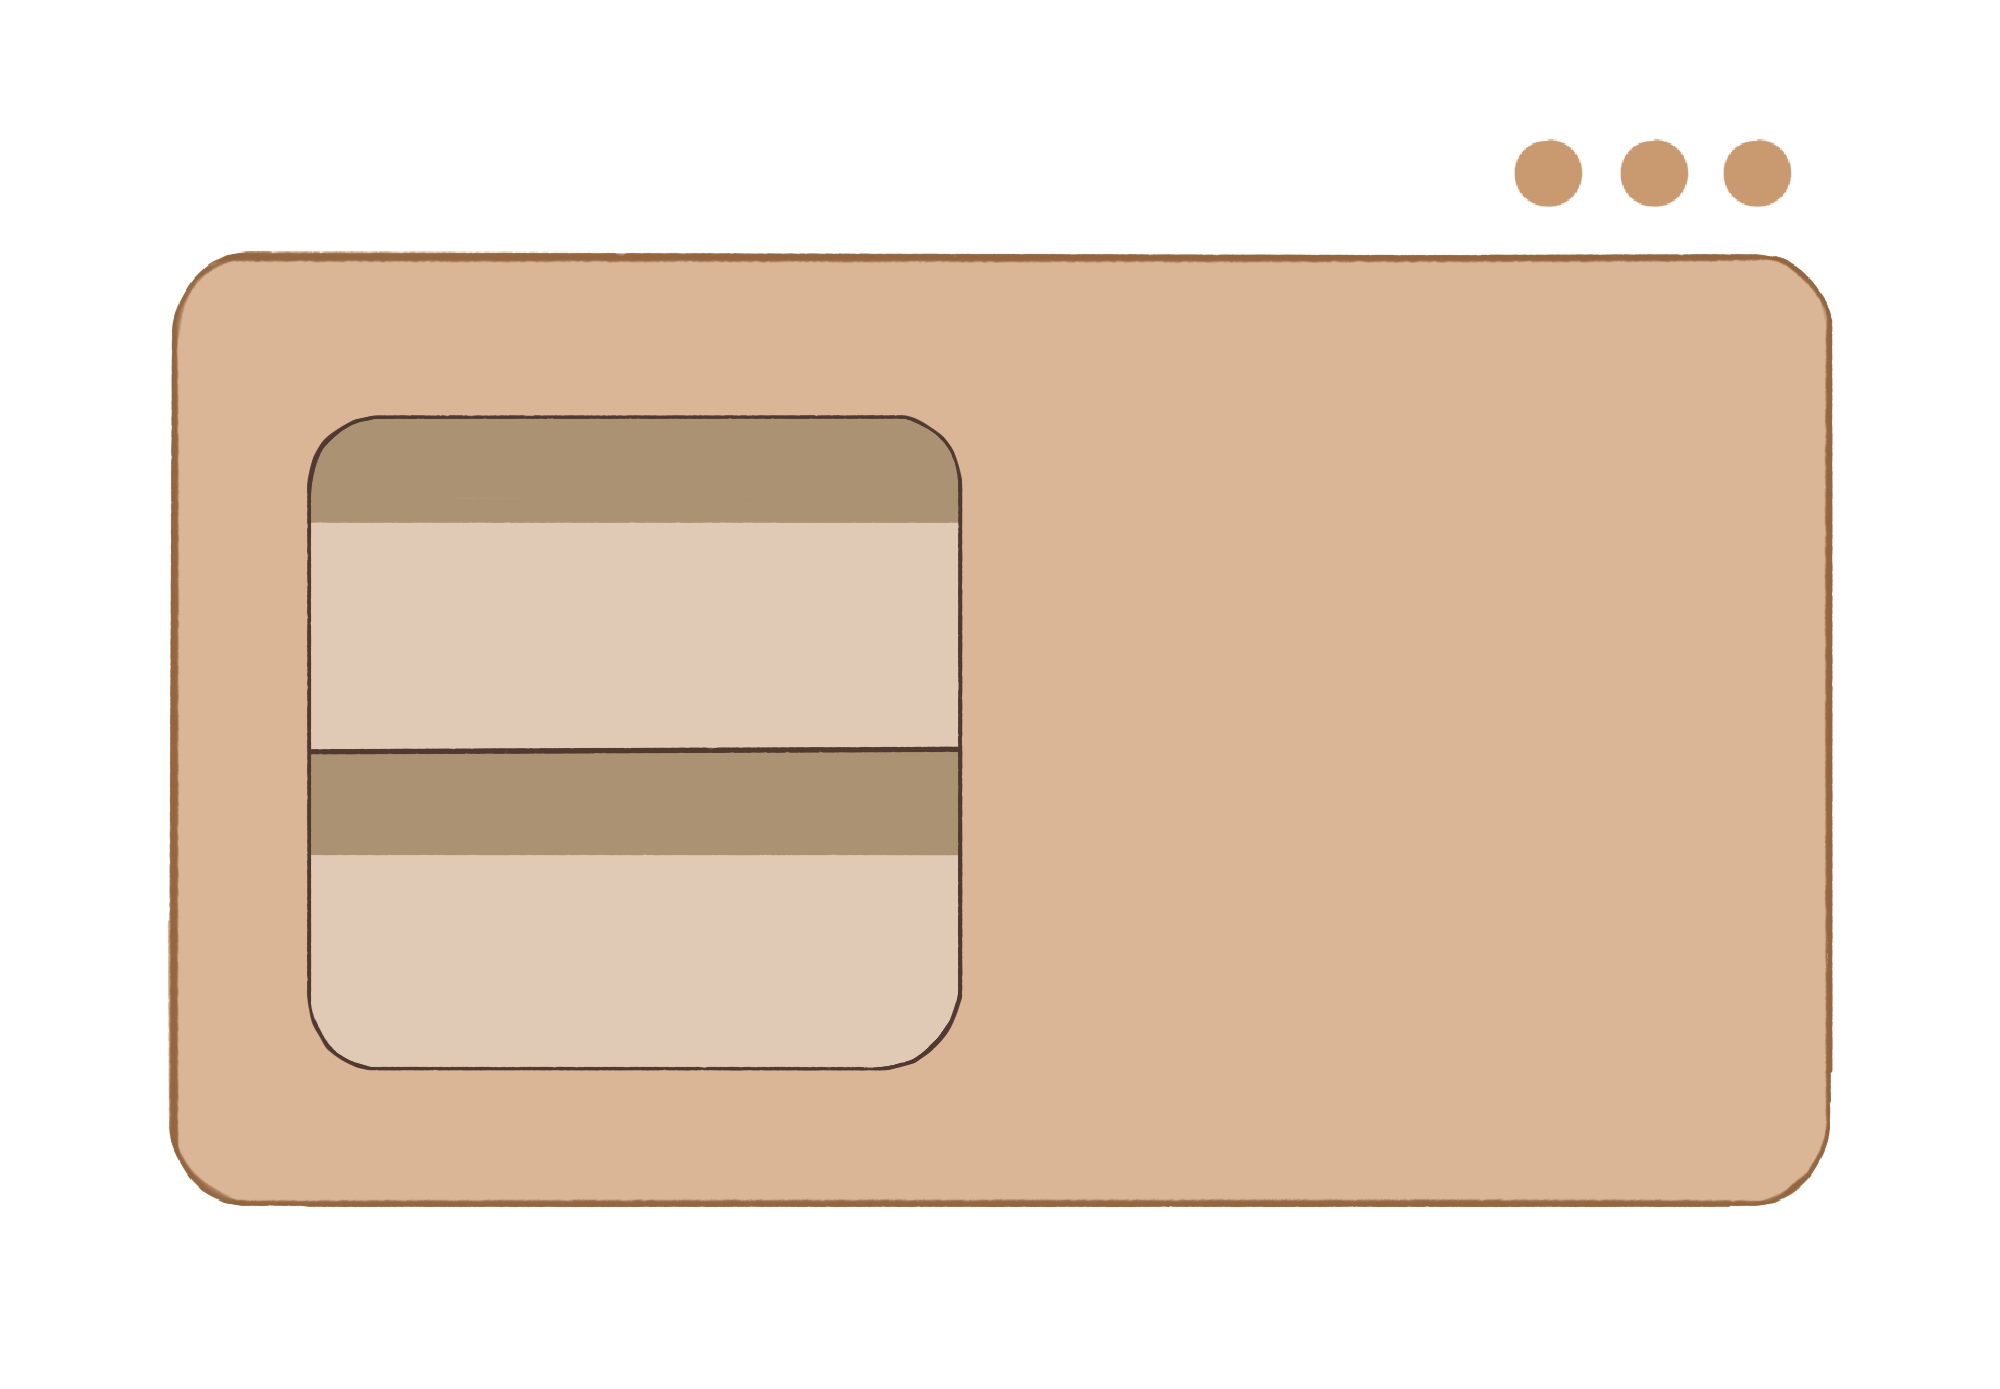
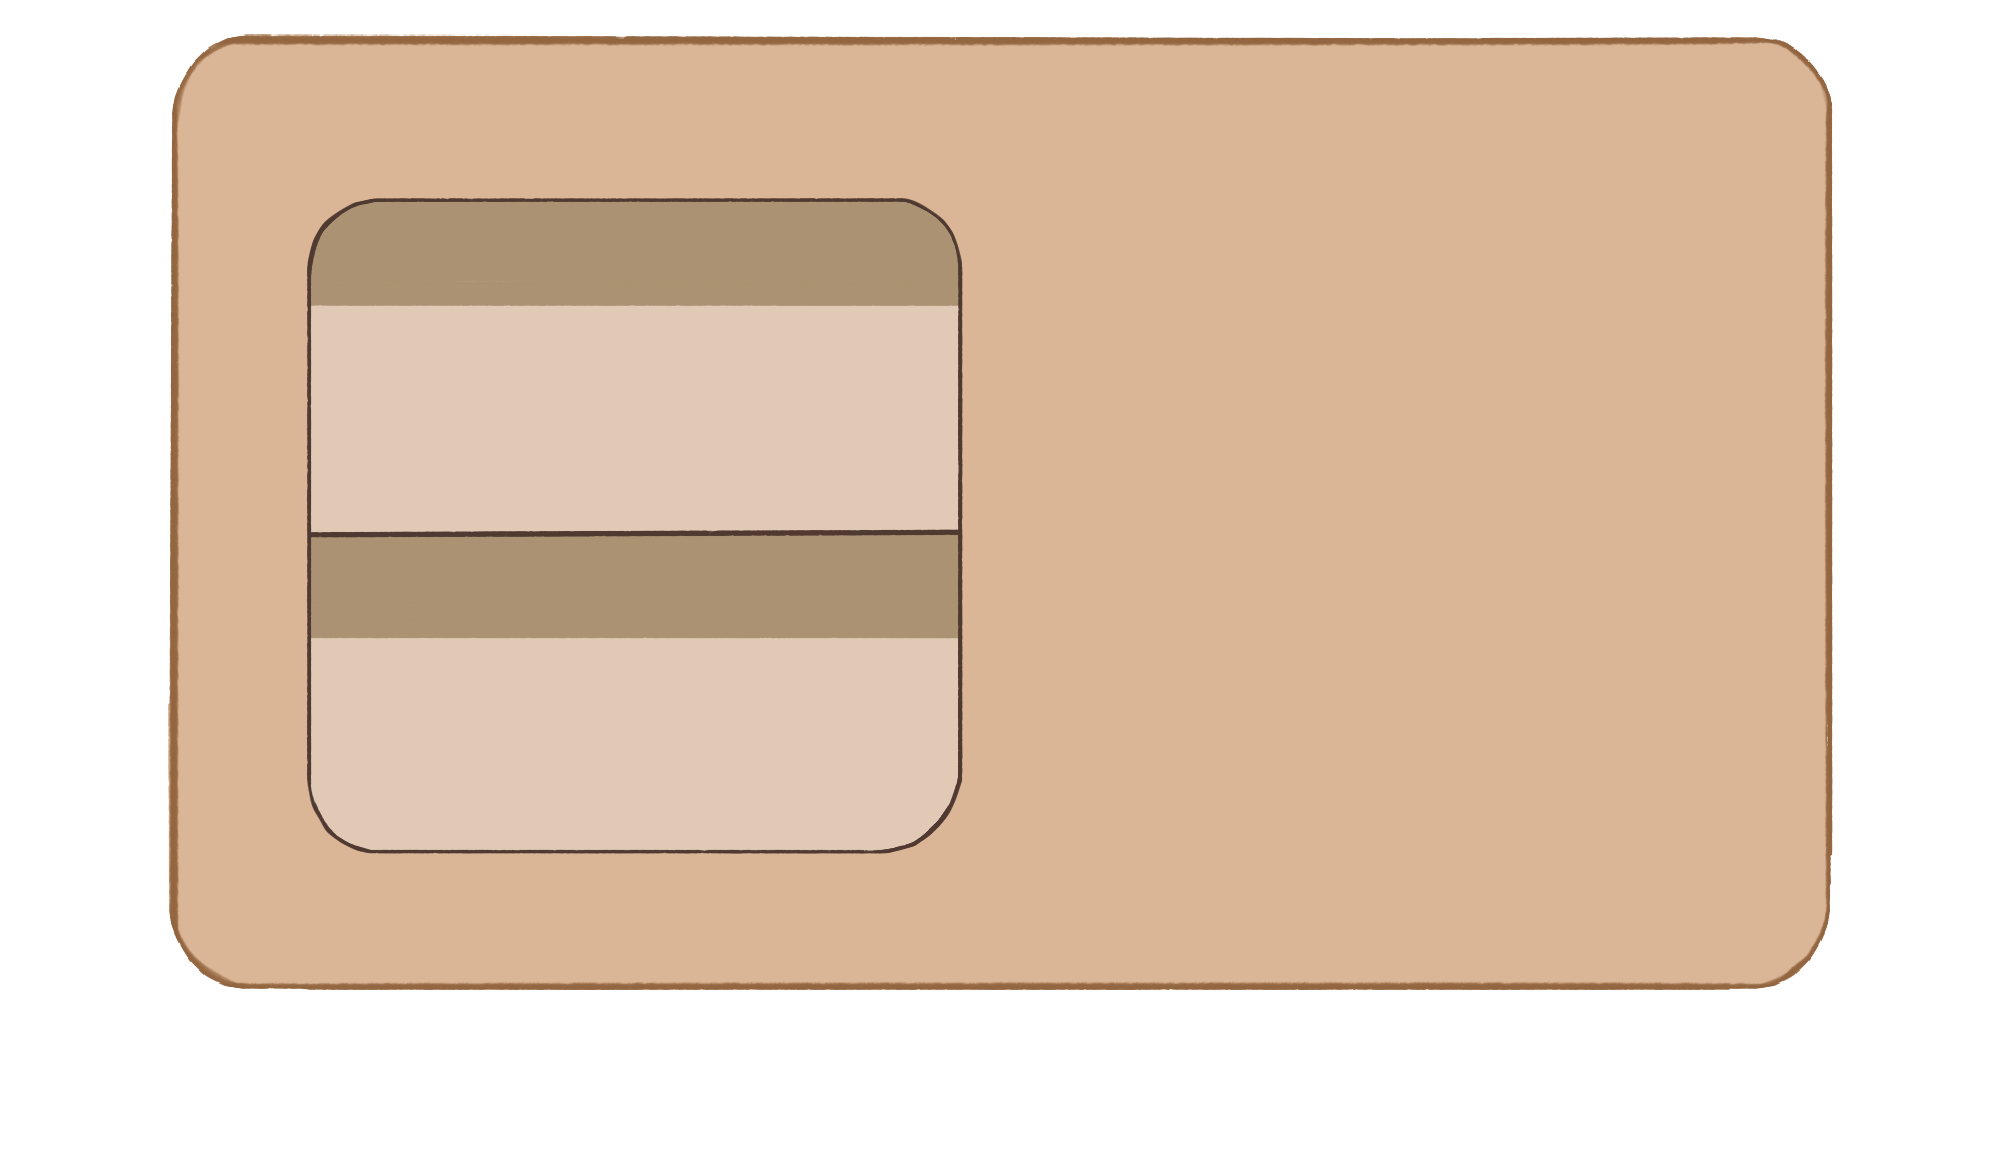
fixed the formatting of parental controls. added home labels. probably can make this a function. more importantly, keyboard shortcuts have been added and WORK

diff --git a/src/KeyboardShortcuts.java b/src/KeyboardShortcuts.java
@@ -1,0 +1,130 @@
+package src;
+
+import javax.swing.*;
+import java.awt.*;
+import java.awt.event.ActionEvent;
+import java.awt.event.KeyEvent;
+
+public class KeyboardShortcuts {
+    private final InGameScreen inGameScreen;
+    private final JPanel mainPanel;
+    private final CardLayout cardLayout;
+    private final Font customFont;
+    private final GameData gameData;
+
+    public KeyboardShortcuts(InGameScreen inGameScreen, JPanel mainPanel, CardLayout cardLayout, Font customFont, GameData gameData) {
+        this.inGameScreen = inGameScreen;
+        this.mainPanel = mainPanel;
+        this.cardLayout = cardLayout;
+        this.customFont = customFont;
+        this.gameData = gameData;
+    }
+
+    public void setupKeyBindings() {
+        InputMap userInput = inGameScreen.getInputMap(JComponent.WHEN_IN_FOCUSED_WINDOW);
+        ActionMap actionMap = inGameScreen.getActionMap();
+
+        userInput.put(KeyStroke.getKeyStroke(KeyEvent.VK_S, 0), "openShop");
+        actionMap.put("openShop", new AbstractAction() {
+            @Override
+            public void actionPerformed(ActionEvent e) {
+                openShop();
+            }
+        });
+
+        // Play - P key
+        userInput.put(KeyStroke.getKeyStroke(KeyEvent.VK_P, 0), "playWithPet");
+        actionMap.put("playWithPet", new AbstractAction() {
+            @Override
+            public void actionPerformed(ActionEvent e) {
+                clickButtonAtPosition(390, 550);
+            }
+        });
+
+        // Sleep - Z key
+        userInput.put(KeyStroke.getKeyStroke(KeyEvent.VK_ENTER, 0), "Sleep");
+        actionMap.put("Sleep", new AbstractAction() {
+            @Override
+            public void actionPerformed(ActionEvent e) {
+                clickButtonAtPosition(150, 500);
+            }
+        });
+
+        // Gift - G key
+        userInput.put(KeyStroke.getKeyStroke(KeyEvent.VK_G, 0), "giveGift");
+        actionMap.put("giveGift", new AbstractAction() {
+            @Override
+            public void actionPerformed(ActionEvent e) {
+                clickButtonAtPosition(560, 550);
+            }
+        });
+
+        // Feed - F key
+        userInput.put(KeyStroke.getKeyStroke(KeyEvent.VK_F, 0), "feedPet");
+        actionMap.put("feedPet", new AbstractAction() {
+            @Override
+            public void actionPerformed(ActionEvent e) {
+                clickButtonAtPosition(210, 550);
+            }
+        });
+
+        // Exercise - E key
+        userInput.put(KeyStroke.getKeyStroke(KeyEvent.VK_E, 0), "exercisePet");
+        actionMap.put("exercisePet", new AbstractAction() {
+            @Override
+            public void actionPerformed(ActionEvent e) {
+                clickButtonAtPosition(730, 550);
+            }
+        });
+
+        // Vet - V key
+        userInput.put(KeyStroke.getKeyStroke(KeyEvent.VK_V, 0), "visitVet");
+        actionMap.put("visitVet", new AbstractAction() {
+            @Override
+            public void actionPerformed(ActionEvent e) {
+                clickButtonAtPosition(900, 550);
+            }
+        });
+
+        // Sleep - Z key
+        userInput.put(KeyStroke.getKeyStroke(KeyEvent.VK_Z, 0), "sleepPet");
+        actionMap.put("sleepPet", new AbstractAction() {
+            @Override
+            public void actionPerformed(ActionEvent e) {
+                clickButtonAtPosition(150, 500);
+            }
+        });
+    }
+
+    private void openShop() {
+        Component[] components = mainPanel.getComponents();
+        for (int i = 0; i < components.length; i++) {
+            Component comp = components[i];
+            if (comp instanceof StoreScreen) {
+                StoreScreen storeScreen = (StoreScreen) comp;
+                storeScreen.resetToFirstPage();
+                cardLayout.show(mainPanel, "Shop");
+                return;
+            }
+        }
+
+        Store store = new Store();
+        StoreScreen storeScreen = new StoreScreen(customFont, cardLayout, mainPanel, store, gameData);
+        mainPanel.add(storeScreen, "Shop");
+        cardLayout.show(mainPanel, "Shop");
+    }
+
+    private void clickButtonAtPosition(int x, int y) {
+        Component[] components = inGameScreen.getComponents();
+        for (int i = 0; i < components.length; i++) {
+            Component comp = components[i];
+            if (comp instanceof JButton) {
+                JButton button = (JButton) comp;
+                if (button.getX() == x && button.getY() == y) {
+                    button.doClick();
+                    return;
+                }
+            }
+        }
+    }
+}

diff --git a/src/ParentalControlScreen.java b/src/ParentalControlScreen.java
@@ -26,15 +26,22 @@ public class ParentalControlScreen extends JLayeredPane {
 
         // Add parental control window on top of grid
         ImageIcon windowBg = new ImageIcon("resources/parentalcontrol_background.png");
-        Image scaledWindowBg = windowBg.getImage().getScaledInstance(1011, 720, Image.SCALE_SMOOTH); // Adjust size as needed
+        Image scaledWindowBg = windowBg.getImage().getScaledInstance(1011, 600, Image.SCALE_SMOOTH); // Adjust size as needed
         JLabel windowLabel = new JLabel(new ImageIcon(scaledWindowBg));
-        windowLabel.setBounds(0, 0, 1080, 750); // Centered-ish, tweak this if needed
+        windowLabel.setBounds(0, 60, 1080, 750); // Centered-ish, tweak this if needed
         add(windowLabel, Integer.valueOf(1));
 
 
         // Back button
-        JButton backButton = MainScreen.buttonCreate(20, 10, 192, 64, "resources/white_button.png", "resources/white_button_clicked.png", "Home");
-        add(backButton, Integer.valueOf(1));
+        JButton homeButton = MainScreen.buttonCreate(20, 20, 192, 64, "resources/white_button.png", "resources/white_button_clicked.png", "Home");
+        add(homeButton, Integer.valueOf(1));
+        JLabel homeText = new JLabel("< HOME");
+        homeText.setFont(customFont);
+        homeText.setForeground(Color.BLACK);
+        homeText.setBounds(20,20,192,64);
+        homeText.setHorizontalAlignment(SwingConstants.CENTER);
+        homeText.setVerticalAlignment(SwingConstants.CENTER);
+        add(homeText, Integer.valueOf(4));
 
         // Labels
         JLabel totalPlayLabel = createLabel("TOTAL PLAY TIME:", 240, 245, 300, 40);
@@ -53,21 +60,21 @@ public class ParentalControlScreen extends JLayeredPane {
         updateStatLabels();
 
         // Buttons
-        JButton resetStatsButton = MainScreen.buttonCreate(620,240, 192, 64, "resources/white_button.png", "resources/white_button_clicked.png", "");
+        JButton resetStatsButton = MainScreen.buttonCreate(620,190, 192, 64, "resources/white_button.png", "resources/white_button_clicked.png", "");
         resetStatsButton.setText("RESET STATS");
         resetStatsButton.setFont(customFont.deriveFont(13f));
         resetStatsButton.setForeground(Color.decode("#7392B2"));
         resetStatsButton.setHorizontalTextPosition(SwingConstants.CENTER);
         resetStatsButton.setVerticalTextPosition(SwingConstants.CENTER);
 
-        JButton setPlayTimeButton = MainScreen.buttonCreate(620, 370, 192, 64, "resources/white_button.png", "resources/white_button_clicked.png", "");
+        JButton setPlayTimeButton = MainScreen.buttonCreate(620, 320, 192, 64, "resources/white_button.png", "resources/white_button_clicked.png", "");
         setPlayTimeButton.setText("SET PLAY TIME");
         setPlayTimeButton.setFont(customFont.deriveFont(12f));
         setPlayTimeButton.setForeground(Color.decode("#7392B2"));
         setPlayTimeButton.setHorizontalTextPosition(SwingConstants.CENTER);
         setPlayTimeButton.setVerticalTextPosition(SwingConstants.CENTER);
 
-        JButton revivePetButton = MainScreen.buttonCreate(620, 500, 192, 62, "resources/white_button.png", "resources/white_button_clicked.png", "");
+        JButton revivePetButton = MainScreen.buttonCreate(620, 440, 192, 62, "resources/white_button.png", "resources/white_button_clicked.png", "");
         revivePetButton.setText("REVIVE PET");
         revivePetButton.setFont(customFont.deriveFont(13f));
         revivePetButton.setForeground(Color.decode("#7392B2"));
@@ -115,8 +122,12 @@ public class ParentalControlScreen extends JLayeredPane {
         });
 
 
-        JButton resetPlayTimeButton = MainScreen.buttonCreate(620, 610, 192, 64,
-                "resources/white_button.png", "resources/white_button_clicked.png", "");
+        JButton resetPlayTimeButton = MainScreen.buttonCreate(620, 560, 192, 64, "resources/white_button.png", "resources/white_button_clicked.png", "");
+        resetPlayTimeButton.setText("RESET PLAY TIME");
+        resetPlayTimeButton.setFont(customFont.deriveFont(11f));
+        resetPlayTimeButton.setForeground(Color.decode("#7392B2"));
+        resetPlayTimeButton.setHorizontalTextPosition(SwingConstants.CENTER);
+        resetPlayTimeButton.setVerticalTextPosition(SwingConstants.CENTER);
 
         // SET PLAY TIME button → shows dialog to get start/end hour and enables limit
         resetPlayTimeButton.addActionListener(e -> {

diff --git a/src/NewGameScreen.java b/src/NewGameScreen.java
@@ -287,92 +287,6 @@ public class NewGameScreen extends JLayeredPane {
         parentPane.repaint();
     }
 
-//   private void showPopup(JLayeredPane parentPane, JLabel overlayLabel, JLabel popUpLabel, String petType) {
-//       this.popupVisible = true;
-//       this.homeButton.setEnabled(false); // Disable home button
-//
-//       // Show popup overlay AND the popup itself
-//       overlayLabel.setVisible(true);
-//       popUpLabel.setVisible(true);
-//
-//       // Pet name input field
-//       JTextField petNameField = new JTextField();
-//       petNameField.setBounds(210, 360, 650, 40);
-//       parentPane.add(petNameField, Integer.valueOf(7));
-//       petNameField.requestFocusInWindow();
-//
-//       // Back Button (closes popup)
-//       JButton backButton = MainScreen.buttonCreate(250, 440, 192, 64, "resources/white_button.png", "resources/white_button_clicked.png", "");
-//       backButton.setText("BACK");
-//       backButton.setFont(customFont);
-//       backButton.setForeground(Color.decode("#7392B2"));
-//       backButton.setHorizontalTextPosition(JButton.CENTER);
-//       backButton.setVerticalTextPosition(JButton.CENTER);
-//
-//       // Enter Button (validates and saves pet name)
-//       JButton enterButton = MainScreen.buttonCreate(600, 440, 192, 64, "resources/white_button.png", "resources/white_button_clicked.png", "");
-//       enterButton.setText("ENTER");
-//       enterButton.setFont(customFont);
-//       enterButton.setForeground(Color.decode("#7392B2"));
-//       enterButton.setHorizontalTextPosition(JButton.CENTER);
-//       enterButton.setVerticalTextPosition(JButton.CENTER);
-//
-//       // Add action listeners
-//       backButton.addActionListener(e -> {
-//           closePopup(parentPane, overlayLabel, popUpLabel, backButton, enterButton, petNameField);
-//       });
-//
-//       enterButton.addActionListener(e -> {
-//           // 🚫 Check if playtime is currently allowed
-//           if (!MainScreen.getParentalControl().isPlayAllowedNow()) {
-//               JOptionPane.showMessageDialog(parentPane,
-//                       "⏰ Playtime is currently restricted.\nPlease try again during allowed hours.",
-//                       "Playtime Restricted",
-//                       JOptionPane.WARNING_MESSAGE);
-//               return;
-//           }
-//
-//           if (!GameDataManager.canCreateNewGame()) {
-//               JOptionPane.showMessageDialog(parentPane,
-//                       "Maximum save files reached! Delete a save to create a new game.",
-//                       "Save Limit Reached",
-//                       JOptionPane.WARNING_MESSAGE);
-//               return;
-//           }
-//
-//           String petName = petNameField.getText().trim();
-//           if (!petName.isEmpty()) {
-//               System.out.println("✅ New Pet Created - Name: " + petName + ", Type: " + petType);
-//
-//               int maxHealth = 100, maxSleep = 100, maxFullness = 100, maxHappiness = 100;
-//
-//               Pet newPet = new Pet(
-//                       petName, petType,
-//                       maxHealth, maxSleep, maxFullness, maxHappiness,
-//                       maxHealth, maxSleep, maxFullness, maxHappiness,
-//                       5, 5, 5, 5,
-//                       false, false, true, false,
-//                       0, 30, 0, 20,
-//                       null
-//               );
-//
-//               Store store = new Store();  // Create store instance
-//               PlayerInventory inventory = new PlayerInventory(store); // Pass store to inventory
-//
-//               String filename = "saves/" + petName + ".json";
-//               GameData newData = new GameData(newPet, inventory, 0);
-//               MainScreen.showInGameScreen(newData, filename);
-//               GameDataManager.saveGame(filename, newPet, inventory, 0);  // Save after loading screen
-//           }
-//
-//           closePopup(parentPane, overlayLabel, popUpLabel, backButton, enterButton, petNameField);
-//       });
-//
-//
-//       parentPane.add(backButton, Integer.valueOf(8));
-//       parentPane.add(enterButton, Integer.valueOf(8));
-//       parentPane.repaint();
-//   }
 
     private void closePopup(JLayeredPane parentPane, JLabel overlayLabel, JLabel popUpLabel,
                             JButton backButton, JButton enterButton, JTextField petNameField) {

diff --git a/src/CreditScreen.java b/src/CreditScreen.java
@@ -41,11 +41,18 @@ public class CreditScreen extends JLayeredPane {
         add(subLabel, Integer.valueOf(4));
 
         // Fixed Home Button - uses the MainScreen.buttonCreate method
-        JButton homeButton = MainScreen.buttonCreate(20, 10, 192, 64,
+        JButton homeButton = MainScreen.buttonCreate(20, 20, 192, 64,
                 "resources/white_button.png",
                 "resources/white_button_clicked.png",
                 "Home");  // Changed to "Home" to match your main screen's name
 
+        JLabel homeText = new JLabel("< HOME");
+        homeText.setFont(customFont);
+        homeText.setForeground(Color.BLACK);
+        homeText.setBounds(20,20,192,64);
+        homeText.setHorizontalAlignment(SwingConstants.CENTER);
+        homeText.setVerticalAlignment(SwingConstants.CENTER);
+        add(homeText, Integer.valueOf(4));
         homeButton.addActionListener(e -> cardLayout.show(mainPanel, "Home"));
         add(homeButton, Integer.valueOf(4));
     }

diff --git a/src/TutorialScreen.java b/src/TutorialScreen.java
@@ -40,7 +40,14 @@ public class TutorialScreen extends JLayeredPane {
         mainPanel.setBounds(0, 0, 1080, 750); // Set bounds for the mainPanel
         add(mainPanel, Integer.valueOf(1)); // Add mainPanel to the layered pane
 
-        JButton homeButton = MainScreen.buttonCreate(20, 10, 192, 64, "resources/white_button.png", "resources/white_button_clicked.png", "Home");
+        JButton homeButton = MainScreen.buttonCreate(20, 20, 192, 64, "resources/white_button.png", "resources/white_button_clicked.png", "Home");
+        JLabel homeText = new JLabel("< HOME");
+        homeText.setFont(customFont);
+        homeText.setForeground(Color.BLACK);
+        homeText.setBounds(20,20,192,64);
+        homeText.setHorizontalAlignment(SwingConstants.CENTER);
+        homeText.setVerticalAlignment(SwingConstants.CENTER);
+        add(homeText, Integer.valueOf(3));
         add(homeButton, Integer.valueOf(2));
 
         resetToGiveGift();

diff --git a/src/InGameScreen.java b/src/InGameScreen.java
@@ -227,6 +227,7 @@ public class InGameScreen extends JLayeredPane {
         // Start the timer
         statDecayTimer.start();
 
+        new KeyboardShortcuts(this, mainPanel, cardLayout, customFont, gameData).setupKeyBindings();
 
     }
     private void updateGif(String gifPath, int duration) {
@@ -545,7 +546,7 @@ public class InGameScreen extends JLayeredPane {
         add(vetIconLabel, Integer.valueOf(3));
         add(vetButton, Integer.valueOf(2));
 
-        JButton sleepButton = MainScreen.buttonCreate(200, 100, 56,47, "resources/sleep_button.png", "resources/sleep_button.png", "");
+        JButton sleepButton = MainScreen.buttonCreate(150, 500, 56,47, "resources/sleep_button.png", "resources/sleep_button.png", "");
         add(sleepButton, Integer.valueOf(2));
     }
 
@@ -888,5 +889,6 @@ public class InGameScreen extends JLayeredPane {
             e.printStackTrace();
         }
     }
+
 
 }
